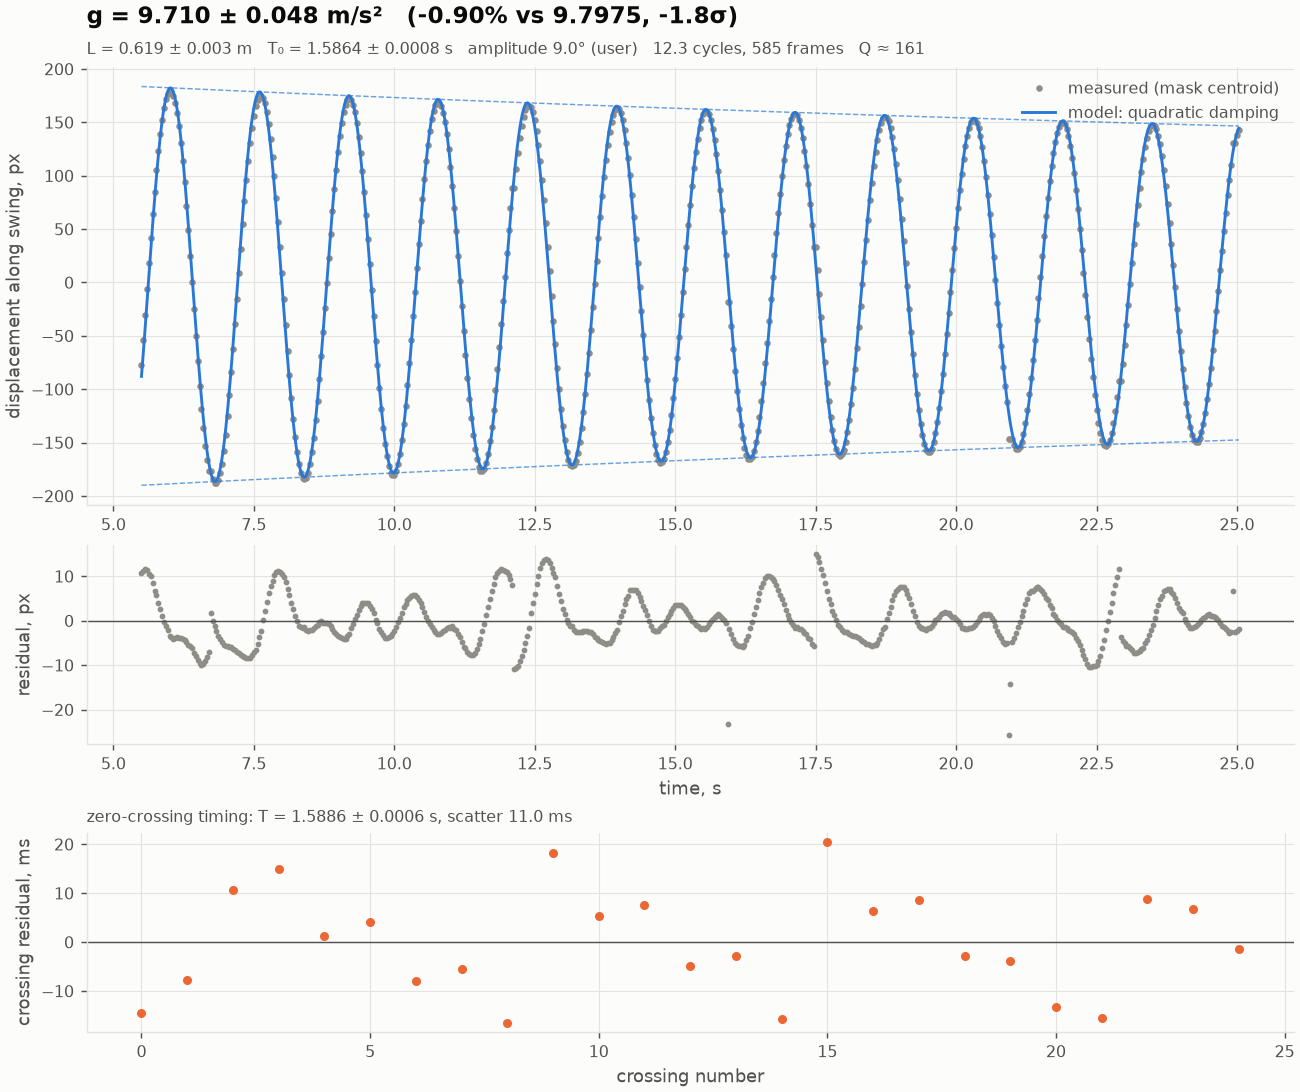
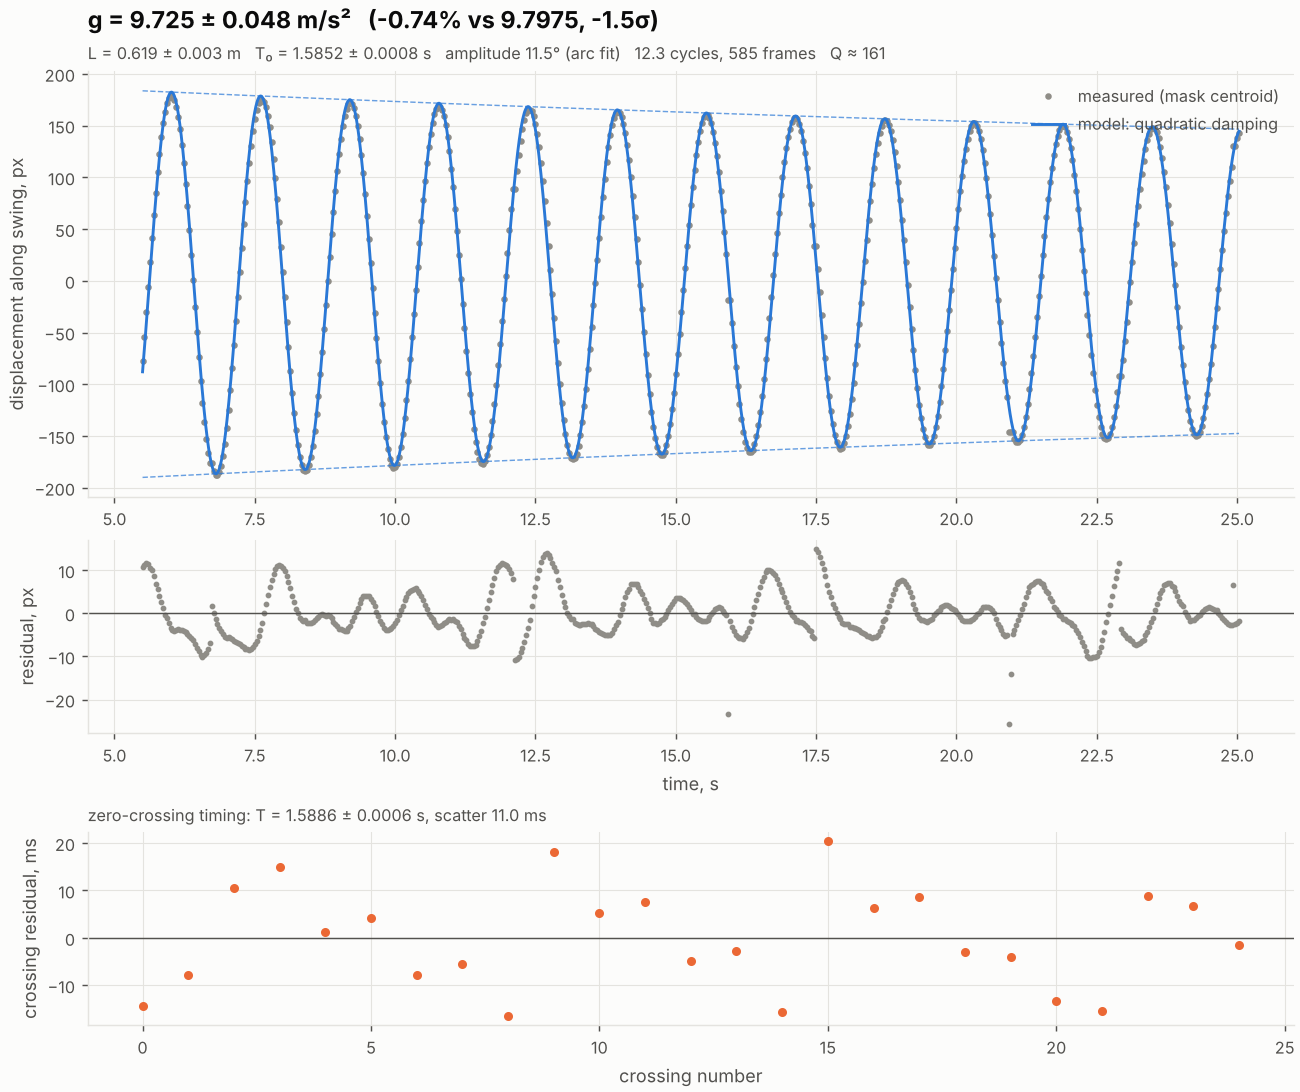
Evaluation: reproduce every real result from saved tracks; fix stale E2 result; README GIF

diff --git a/galileo/static/index.html b/galileo/static/index.html
@@ -272,7 +272,7 @@ dialog::backdrop { background: rgba(5, 10, 15, .85); }
           <div class="num">0.03 %</div><div class="vs">A tracker without a model lost the object in 5 of 6.</div></div>
       </div>
       <div class="ctas"><button class="cta" type="button" id="watch">Watch a real run</button><a class="ghost" href="#measure">Measure your video</a></div>
-      <div class="trust"><span>74 tests in CI</span><span>Lab notebook and agent logs in the repository</span><span>No sign-in</span><span>MIT licence</span></div>
+      <div class="trust"><span>75 tests in CI</span><span>Lab notebook and agent logs in the repository</span><span>No sign-in</span><span>MIT licence</span></div>
     </div>
 
     <aside class="replay" id="replay" aria-label="A real run, replayed">

diff --git a/eval/reproduce.py b/eval/reproduce.py
@@ -1,0 +1,73 @@
+"""Re-measure every real run from its saved SAM 3.1 track and compare with the committed result.
+
+No API key and no network: the tracks SAM 3.1 produced are in docs/evidence, and this runs
+the same analysis code on them again. A row passes when the re-measured value agrees with
+the committed one to well within its own error bar (0.1 sigma), i.e. the published numbers
+come from the code in this repository, not from a notebook nobody can rerun.
+
+    python eval/reproduce.py            # prints a table, exits 1 if anything disagrees
+"""
+
+from __future__ import annotations
+
+import json
+import os
+import subprocess
+import sys
+import tempfile
+from pathlib import Path
+
+ROOT = Path(__file__).resolve().parents[1]
+EV = ROOT / "docs" / "evidence"
+
+# (folder, what it is, kind, extra settings as recorded in the lab notebook)
+RUNS = [
+    ("experiment01", "E2 golf ball, 0.619 m (tests P1)", "pendulum", ["--t-start", "5.5"]),
+    ("VID_20261101_141249", "E3 golf ball, 0.289 m (tests P2)", "pendulum", []),
+    ("VID_20261101_161000", "E4 white ball, 0.489 m (tests P3)", "pendulum", []),
+    ("p3_auto", "E4, fully automatic (Muse Spark chose the point)", "pendulum", []),
+    ("VID_20261101_142028", "bouncing golf ball, first drop", "bounce", []),
+]
+
+
+UTF8 = {**os.environ, "PYTHONIOENCODING": "utf-8"}  # Windows consoles default to cp1251/cp1252
+
+
+def _run(args: list[str]) -> None:
+    subprocess.run([sys.executable, "-m", "galileo.cli", *args], cwd=ROOT, check=True,
+                   capture_output=True, text=True, encoding="utf-8", env=UTF8)
+
+
+def check(folder: str, kind: str, extra: list[str], tmp: Path) -> list[tuple[str, float, float, float]]:
+    out = tmp / folder.replace("/", "_")
+    track = str(EV / folder / "track.csv")
+    if kind == "pendulum":
+        ref = json.loads((EV / folder / "result.json").read_text(encoding="utf-8"))["result"]
+        _run(["analyze", track, "--length", str(ref["length_m"]), *extra, "--out", str(out)])
+        new = json.loads((out / "result.json").read_text(encoding="utf-8"))["result"]
+        return [("T0, s", ref["T0"], new["T0"], ref["sigma_T0"]),
+                ("g, m/s²", ref["g"], new["g"], ref["sigma_g"])]
+    ref = json.loads((EV / folder / "result_bounce.json").read_text(encoding="utf-8"))["result"]
+    _run(["bounce", track, "--out", str(out)])
+    new = json.loads((out / "result_bounce.json").read_text(encoding="utf-8"))["result"]
+    return [("e", ref["e"], new["e"], ref["sigma_e"])]
+
+
+def main() -> int:
+    if hasattr(sys.stdout, "reconfigure"):
+        sys.stdout.reconfigure(encoding="utf-8", errors="replace")
+    bad = 0
+    print(f"{'run':52} {'quantity':9} {'committed':>12} {'re-measured':>12} {'diff/σ':>7}")
+    with tempfile.TemporaryDirectory() as t:
+        for folder, what, kind, extra in RUNS:
+            for name, ref, new, sigma in check(folder, kind, extra, Path(t)):
+                z = abs(new - ref) / sigma
+                ok = z < 0.1
+                bad += not ok
+                print(f"{what:52} {name:9} {ref:12.5f} {new:12.5f} {z:7.3f}  {'ok' if ok else 'DIFFERS'}")
+    print("all reproduced" if not bad else f"{bad} value(s) differ")
+    return 1 if bad else 0
+
+
+if __name__ == "__main__":
+    sys.exit(main())

diff --git a/tests/test_reproduce.py b/tests/test_reproduce.py
@@ -1,0 +1,16 @@
+"""Every published real result comes out of this code, from the saved SAM 3.1 tracks."""
+
+import os
+import subprocess
+import sys
+from pathlib import Path
+
+ROOT = Path(__file__).resolve().parent.parent
+
+
+def test_published_results_reproduce_from_the_saved_tracks():
+    env = {**os.environ, "PYTHONIOENCODING": "utf-8"}  # σ in the output; Windows pipes are cp1251
+    r = subprocess.run([sys.executable, str(ROOT / "eval" / "reproduce.py")], cwd=ROOT,
+                       capture_output=True, text=True, encoding="utf-8", env=env, timeout=600)
+    assert r.returncode == 0, r.stdout + r.stderr
+    assert "all reproduced" in r.stdout

diff --git a/eval/README.md b/eval/README.md
@@ -1,0 +1,76 @@
+# Evaluation
+
+How we know the numbers are right, in four checks. Everything here can be rerun; only the
+SAM 3.1 benchmark costs API credits.
+
+| Check | What it shows | Result | Rerun |
+|---|---|---|---|
+| **1. Reproduction** | every published real result comes out of this code, from the saved SAM 3.1 tracks | 9 of 9 values identical | `python eval/reproduce.py` (free, no key; also run in CI) |
+| **2. Accuracy benchmark** | error and honesty of the error bar on 81 synthetic videos with a known g, one condition made harder at a time | 0.000–0.03 % in normal to hard conditions; SAM 3.1 holds where a model-free tracker loses the object | `python scripts/accuracy_map.py --tracker sam` (~$7.40) or `--tracker opencv` (free) |
+| **3. Cross-checks on real video** | two trackers, two period estimators, automatic vs human setup | agree to 0.05 %, 0.2–0.6 σ, and identically | in the README, *Validation* |
+| **4. Blind predictions** | the physics predicts experiments that were filmed later | P1, P2 confirmed; P3 in tension (2.2 σ, cause found); B1 refuted (the drop was 34 cm, not 30) | `docs/evidence/lab.json`, agent logs in `docs/evidence/agent/` |
+
+## 1. Reproduction (free)
+
+```bash
+python eval/reproduce.py
+```
+
+```
+run                                                  quantity     committed  re-measured  diff/σ
+E2 golf ball, 0.619 m (tests P1)                     T0, s          1.58521      1.58521   0.000  ok
+E2 golf ball, 0.619 m (tests P1)                     g, m/s²        9.72467      9.72467   0.000  ok
+E3 golf ball, 0.289 m (tests P2)                     T0, s          1.08676      1.08676   0.000  ok
+E3 golf ball, 0.289 m (tests P2)                     g, m/s²        9.65020      9.65020   0.000  ok
+E4 white ball, 0.489 m (tests P3)                    T0, s          1.39817      1.39817   0.000  ok
+E4 white ball, 0.489 m (tests P3)                    g, m/s²        9.87520      9.87520   0.000  ok
+E4, fully automatic (Muse Spark chose the point)     T0, s          1.39818      1.39818   0.000  ok
+E4, fully automatic (Muse Spark chose the point)     g, m/s²        9.87516      9.87516   0.000  ok
+bouncing golf ball, first drop                       e              0.86384      0.86384   0.000  ok
+all reproduced
+```
+
+Writing this check found one stale file: `docs/evidence/experiment01/result.json` had been saved
+by an early run with a hand-set 9° swing angle, while the lab notebook (and the P1 verdict) used
+the angle measured from the video, 11.5°. The measured period is the same in both; only the
+small-angle correction differs (T0 1.5864 vs 1.5852 s). The file now matches the notebook.
+
+## 2. Accuracy benchmark (synthetic videos with a known g)
+
+`galileo/synth.py` renders pendulum videos with exact nonlinear motion, per-row exposure (shutter
+blur, rolling shutter), noise, shake and a chosen contrast. `scripts/accuracy_map.py` changes one
+condition at a time from a baseline, 3 seeds each, 81 videos, and runs the normal pipeline.
+
+| Condition | OpenCV (no model) | SAM 3.1 |
+|---|---|---|
+| Normal conditions | 0.005 % | 0.000–0.010 % |
+| Ball 40 grey levels above the background | lost on 2 of 3 | **0.03 %**, 3/3 reliable |
+| Ball 15 grey levels above the background | lost on 3 of 3 | **0.025 %**, 3/3 reliable |
+| Strong damping (0.3 /s) | flagged unreliable 3/3 | **0.10 %** |
+| Heavy sensor noise (σ = 25) | 0.04 % | 0.09 % (error bar slightly optimistic) |
+| 40° swing | 0.15 % | 0.15 % |
+
+Robust with both: motion blur over a whole frame, 15–60 fps, 5–30 s, rolling shutter up to
+33 ms, a phone rolled by 20°, camera shake up to 25 px. Full tables:
+[SAM 3.1](../docs/accuracy_sam.md), [OpenCV](../docs/accuracy_opencv.md); plots:
+[SAM 3.1](../docs/accuracy_map_sam.png), [OpenCV](../docs/accuracy_map_opencv.png).
+
+The bouncing ball has its own synthetic checks (README, *Validation*): impacts timed to ≈0.3 ms at
+30 fps and e = 0.8001 ± 0.0001 for a true 0.800. Its error bars are checked in CI on every push:
+over 60 simulated drops the pulls must scatter with a spread between 0.7 and 1.4
+(`tests/test_bounce.py::test_error_bars_are_honest`).
+
+## 3. Cross-checks on real video
+
+* SAM 3.1 and a model-free OpenCV tracker on the same video: T0 = 1.0868 vs 1.0862 s.
+* Model fit and zero-crossing regression, on every run: 0.2–0.6 σ apart.
+* Fully automatic (Muse Spark picks the object and the frame) vs a human click on the same
+  video: T0 = 1.39818 vs 1.39817 s.
+* Bouncing ball, SAM 3.1 vs OpenCV: e = 0.8638 vs 0.863.
+
+## 4. Blind predictions
+
+The agent freezes a prediction in the lab notebook before the experiment that tests it is
+filmed, and verifies it itself when the experiment is added. The full scorecard, including
+the predictions that failed and why, is in the README and on the
+[site](https://giochvanno.github.io/hackathon-meta-galileo/#predictions).

diff --git a/README.md b/README.md
@@ -2,12 +2,16 @@
 
 [![CI](https://github.com/Giochvanno/hackathon-meta-galileo/actions/workflows/ci.yml/badge.svg)](https://github.com/Giochvanno/hackathon-meta-galileo/actions/workflows/ci.yml)
 
+<img src="docs/sam_tracking.gif" align="right" width="230" alt="SAM 3.1 tracking a pendulum on a phone video, with the period measured live">
+
 **Site: [giochvanno.github.io/hackathon-meta-galileo](https://giochvanno.github.io/hackathon-meta-galileo/)**:
 a replay of a real fully automatic run, SAM 3.1's tracking video, every blind prediction and
 the measured runs. It is the static copy of the app (no API calls); the live app, with the
 camera, runs locally with your key (see below).
 
-Film a simple experiment with a phone. Isochron AI measures the motion frame by frame with
+**A measuring instrument made of multimodal models and physics:** a phone video goes in, a
+measurement with an honest error bar comes out. Film a simple experiment with a phone.
+Isochron AI measures the motion frame by frame with
 **SAM 3.1** (Meta Model API), fits competing physical models with honest uncertainties,
 and lets a **Muse Spark** agent run the scientific loop: choose the model the data supports,
 estimate g, register a falsifiable prediction for the next experiment, and verify it
@@ -61,10 +65,11 @@ tracked by SAM 3.1, analysed by the code in this repository, judged by the Muse 
 | SAM 3.1 vs a model-free OpenCV tracker on the same video | periods agree to 0.05 % | |
 | Fully automatic run (Muse Spark finds the ball, SAM 3.1 tracks it) | T0 = 1.3982 s, **identical to a human click** | |
 | Cost | ≈ $0.20 per video (SAM), ≈ $0.02 to look (Spark), ≈ $0.035–0.05 per agent run | |
-| Tests | 74, run in CI on every push | |
+| Tests | 75, run in CI on every push | |
 
 Every number below can be checked: the notebook, the agent logs, the tracks and the fits of
-each run are in [`docs/evidence`](docs/evidence/README.md).
+each run are in [`docs/evidence`](docs/evidence/README.md). `python eval/reproduce.py` re-measures every real result from the saved
+tracks (no key needed); [`eval/`](eval/README.md) sums up how the numbers were checked.
 
 ### The experiments
 
@@ -425,7 +430,7 @@ verdict was computed or shown, so the length could not be chosen to fit the pred
 python -m venv .venv && source .venv/bin/activate      # Windows: .venv\Scripts\activate
 pip install -e ".[dev]"
 cp .env.example .env                                    # put your MODEL_API_KEY in it
-pytest -q                                               # 74 tests, no network needed
+pytest -q                                               # 75 tests, no network needed
 ```
 
 ffmpeg comes with `imageio-ffmpeg`; no system install needed.
@@ -485,6 +490,7 @@ galileo/
 scripts/make_synthetic_pendulum.py   video with known g for end-to-end tests
 scripts/make_synthetic_bounce.py     bouncing-ball video with known e
 scripts/accuracy_map.py              81 synthetic videos, one condition changed at a time
+eval/                                how the numbers were checked; reproduce.py re-measures every real result
 scripts/build_static.py              the static copy of the site for GitHub Pages
 scripts/ball_film.py                 a picture of the bounces made from the video's own pixels (film.png)
 scripts/check_models.py              which models this key can use, and whether they call tools

diff --git a/docs/evidence/README.md b/docs/evidence/README.md
@@ -11,7 +11,7 @@ and, where made, `overlay.png` and `look.png` (what Muse Spark saw).
 | `lab.json` | The lab notebook used by the agent: experiments E1–E4, the current model, the frozen predictions P1–P4 with their verdicts, and the experiment requests. |
 | `agent/` | Step-by-step logs of every Muse Spark agent run (tool calls, results, tokens, cost). `run_20261101_143109` verified P2; `run_20261101_161903` verified P3. |
 | `VID_20261030_180115/` | **E1**, AA battery on a USB cable (L by eye). Includes the SAM text-prompt probes. |
-| `experiment01/` | **E2**, golf ball on sewing thread, L = 0.619 m. Tested P1 (confirmed, blind). |
+| `experiment01/` | **E2**, golf ball on sewing thread, L = 0.619 m. Tested P1 (confirmed, blind).  `result.json` and `report.png` were re-analysed on Nov 2 from the same track with the notebook's settings (the first version used a hand-set 9° swing angle; see `eval/README.md`). |
 | `VID_20261101_141249/` | **E3**, L = 0.289 m, ~19° release. Tested P2 (confirmed, blind). |
 | `VID_20261101_161000/` | **E4**, L = 0.489 m, white ball in front of a white panel. Tested P3 (tension). |
 | `p3_auto/` | E4 again, **fully automatic**: Muse Spark chose the frame and the point (`look.json`, `look.png`), SAM 3.1 tracked; same T0 as the human click. |
